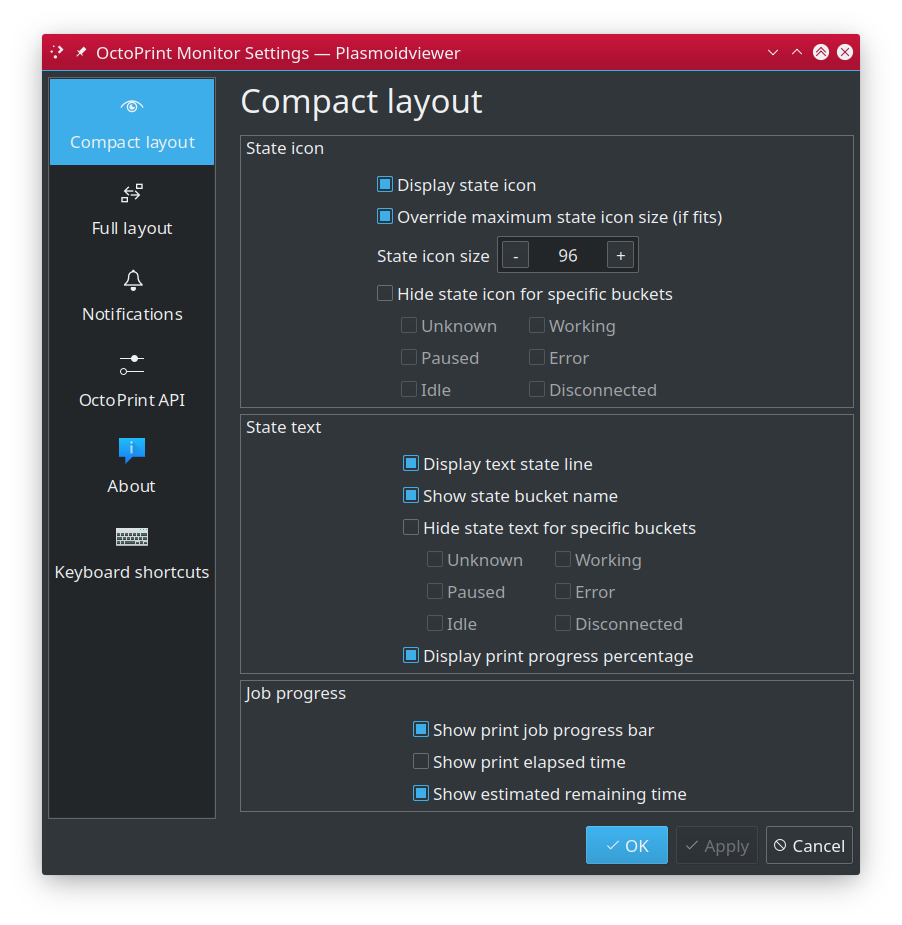
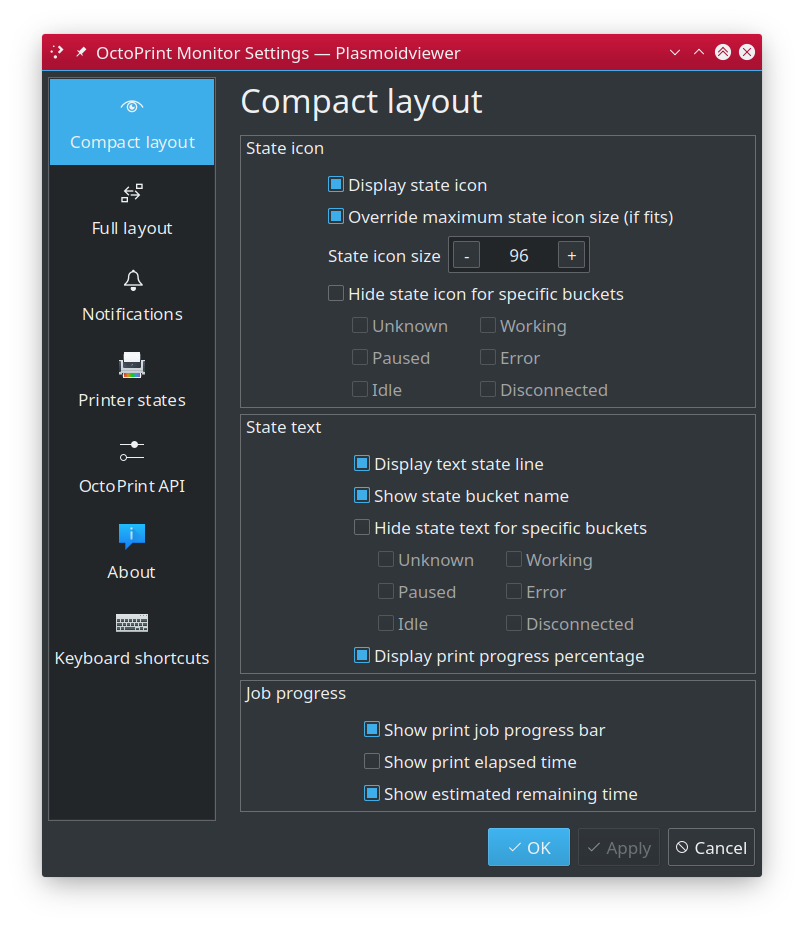
Updated docs to cover custom printer state names

Changed region(s): [[0.0311, 0.0303, 0.9639, 0.9384]]

diff --git a/docs/setup.md b/docs/setup.md
@@ -15,6 +15,7 @@
        * [Compact layout](#compact-layout)
        * [Full layout](#full-layout)
        * [Desktop notifications](#desktop-notifications)
+       * [Printer states](#printer-states)
        * [OctoPrint API](#octoprint-api)
    * [Troubleshooting](troubles.md)
    * [License](../README.md/#license)
@@ -158,6 +159,18 @@ Full layout is being used when `OctoPrint Monitor` is used as regular desktop wi
    - **Print job failed** - timeout (in seconds) for desktop notification of failed (aborted, stopped,
      printer disconnected etc) print job. Setting to `0` means no timeout.
 
+### Printer states ###
+
+Several printer state names can be configured to your liking. So you can i.e. have status icon
+hidden for `Idle` state and at the same time set `Idle` bucket name to i.e. `Printer #2 is idle.`
+which may be more useful in several cases.
+
+![Printer states](img/config-printer.png)
+
+- **Custom printer state names** - when checked, provided text will be used in place of original
+  state bucket name. If custom string is enabled but not provided (empty string), default value
+  will be used instead.
+
 ## OctoPrint API ##
 
 Configure OctoPrint API access here.
@@ -173,4 +186,3 @@ Configure OctoPrint API access here.
  - **Data polling**
    - **Status poll interval** - controls how often `OctoPrint Monitor` will query
      OctoPrint about its status and the printer. 
-
